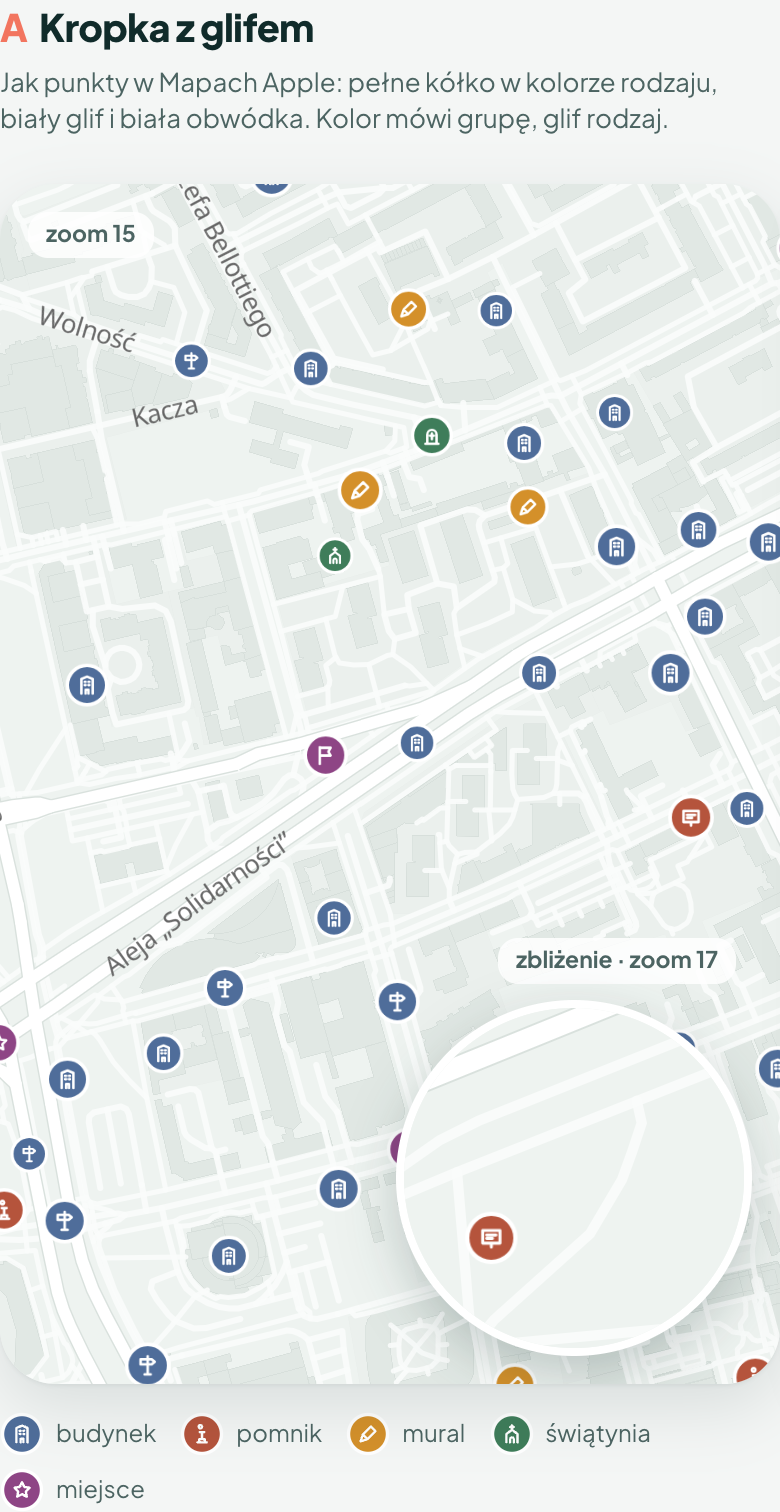
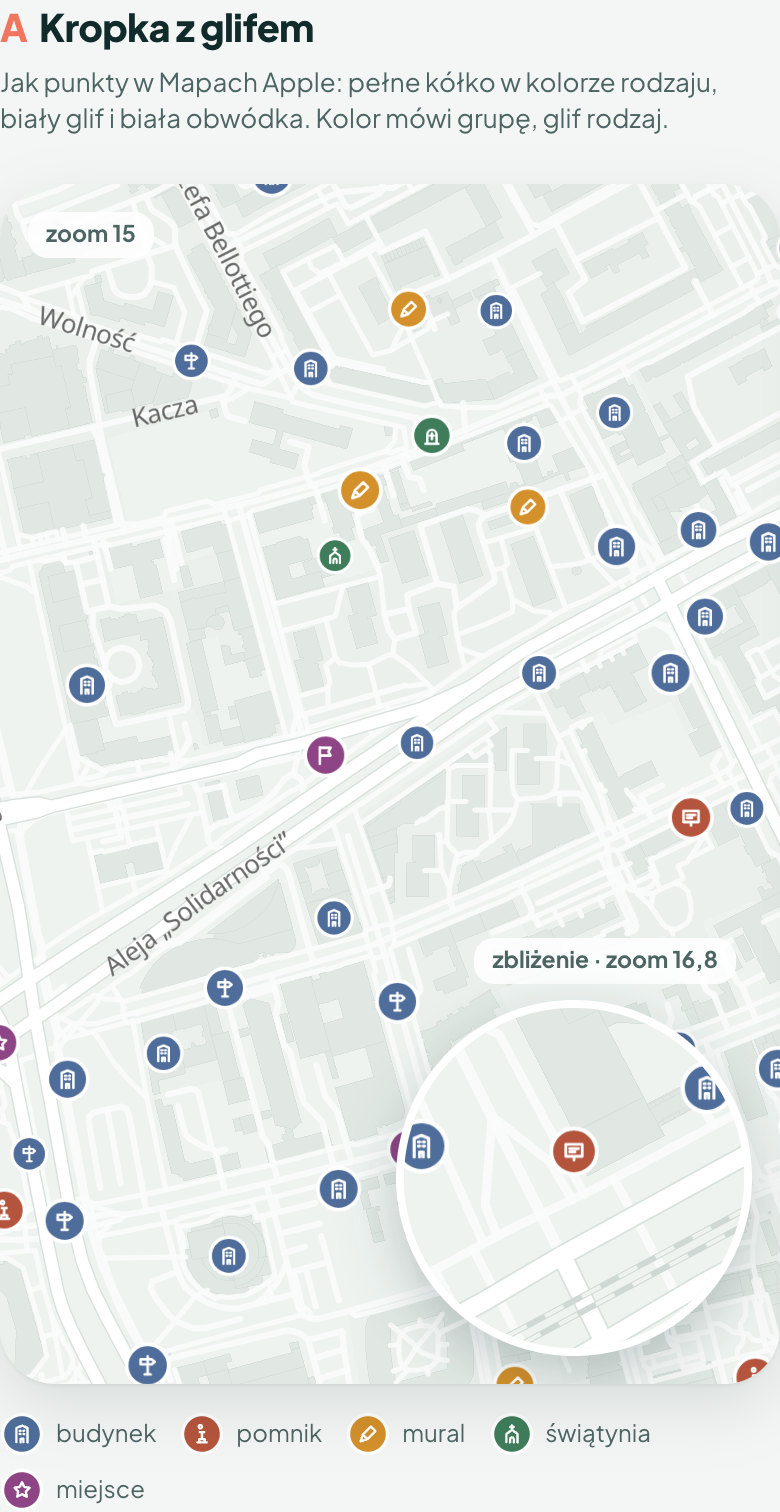
odswiezone propozycje znacznikow i zoom zblizenia 16,8

diff --git a/docs/ui/propozycje/html/ikony-znaczniki.html b/docs/ui/propozycje/html/ikony-znaczniki.html
@@ -163,7 +163,7 @@ for (const w of WARIANTY) {
     <div class="naglowek"><h2><span>${w.id.toUpperCase()}</span>${w.tytul}</h2><p>${w.opis}</p></div>
     <div class="ramka">
       <div class="mapa"></div><div class="zoom">zoom 15</div>
-      <div class="lupa-podpis">zbliżenie · zoom 17</div>
+      <div class="lupa-podpis">zbliżenie · zoom 16,8</div>
       <div class="lupa"><div class="mapa"></div></div>
     </div>
     <div class="legenda"></div>`;
@@ -178,7 +178,7 @@ for (const w of WARIANTY) {
 
   const [duza, mala] = kol.querySelectorAll('.mapa');
   const opcje = { style: 'https://tiles.openfreemap.org/styles/positron', attributionControl: false, interactive: false, preserveDrawingBuffer: true, fadeDuration: 0 };
-  for (const [el, center, zoom] of [[duza, SRODEK, 15], [mala, [20.9772, 52.2357], 17.3]]) {
+  for (const [el, center, zoom] of [[duza, SRODEK, 15], [mala, [20.9871, 52.2400], 16.8]]) {
     const m = new maplibregl.Map({ ...opcje, container: el, center, zoom });
     window.MAPY = (window.MAPY || 0) + 1;
     m.on('load', async () => {

diff --git a/docs/ui/README.md b/docs/ui/README.md
@@ -21,6 +21,7 @@ Każdy zrzut ma jedną linię poniżej: plik, co pokazuje, decyzja (jeśli jest)
 
 | Plik | Co pokazuje | Zadanie | Decyzja |
 |---|---|---|---|
+| [1800-znaczniki-00-zestawienie](propozycje/1800-znaczniki-00-zestawienie.png), [a](propozycje/1800-znaczniki-a.png), [b](propozycje/1800-znaczniki-b.png), [c](propozycje/1800-znaczniki-c.png), [d](propozycje/1800-znaczniki-d.png), [e](propozycje/1800-znaczniki-e.png) | Znaczniki miejsc zamiast ilustracji z `ikony-mapy/` (Paweł: brzydkie, kropki były lepsze). 326 prawdziwych miejsc, kolory rodzajów z `map-style.ts`, zoom 15 i zbliżenie. **A · Kropka z glifem**: kółko w kolorze rodzaju, biały glif. **B · Kropki, które rosną**: kropki do zoomu 16, potem kółko z glifem. **C · Pinezka**: kropla z glifem wbita w miejsce. **D · Plakietka**: biały kwadracik z kolorowym glifem. **E · Pierścień z podpisem**: bez glifu, pełny środek przy bogatych miejscach, nazwa z bliska. HTML: `propozycje/html/ikony-znaczniki.html` | mapa, ikony | do wyboru Pawła |
 | [1709-trasa-na-zywo-mobile](wyniki/1709-trasa-na-zywo-mobile.png), [pełny arkusz](wyniki/1709-trasa-na-zywo-pelny-mobile.png), [desktop](wyniki/1709-trasa-na-zywo-desktop.png) | Wdrożony ekran trasy „Na żywo” (wariant A), B, C i przełącznik usunięte. Kod: `features/demo/components/route-live.tsx`. Zapis dopasowuje wysokość do wysunięcia arkusza (zmienna CSS `--trasa-widoczne`), spacja wstrzymuje, strzałek nie ma | ekran trasy, T-106 | |
 | [1704-trasa-na-zywo-a](propozycje/1704-trasa-na-zywo-a-mobile.png), [b](propozycje/1704-trasa-na-zywo-b-mobile.png), [c](propozycje/1704-trasa-na-zywo-c-mobile.png) | Ekran trasy przerobiony pod T-106 (Antek): temat wybiera lokalizacja, a Sawa mówi jednym strumieniem z pomostami między tematami. Nie ma więc przycisków poprzednia/następna, zostaje pauza, a „Opowiedz teraz” przy przyszłym punkcie to wyjątek. Słowa już wypowiedziane są ciemne, reszta jasna (jak karaoke), a pod spodem „Dalej X · za ok. N min”. **A · Na żywo**: ciągły zapis jak napisy radia, poprzednie tematy wyszarzone nad bieżącym, chip „Teraz: miejsce” zmienia się sam, zapis jedzie za głosem, a po ręcznym przewinięciu pojawia się „Wróć do Sawy”. **B · Rozkład**: plan jazdy z odcinkami linii, znacznik „Ty” sam przeskakuje między punktami; przeszły punkt rozwija się z tym, co Sawa o nim powiedziała, przyszły z „Opowiedz teraz”. **C · Rozdziały**: karty jadą same za lokalizacją; przesunięcie w bok tylko podgląda przeszłe albo przyszłe rozdziały i nie zmienia narracji, a „Wróć do Sawy” wraca na bieżący. Do czasu T-106 temat zmienia się po końcu opowieści, a zapis składa się z kolejnych opowieści | ekran trasy, T-106 | Paweł wybrał A (17.10, 17:09) |
 | [1652-trasa-a](propozycje/1652-trasa-a-mobile.png), [b](propozycje/1652-trasa-b-mobile.png), [c](propozycje/1652-trasa-c-mobile.png) | Ekran gotowej trasy od nowa, 3 propozycje w kodzie (przełącznik u góry arkusza, `?trasa=a\|b\|c`, `route-variants.tsx`). **A · Odtwarzacz**: opowieść na pierwszym planie, duża nazwa miejsca i tekst Sawy, pasek postępu z odcinkiem na punkt (przy >12 punktach jeden ciągły), przyciski poprzednia/graj/następna, punkty jako kafelki przewijane w bok. **B · Rozkład**: jak trasa w Mapach Apple, duży czas jazdy i godzina startu, pionowa oś z odcinkami (linia, kierunek, godzina) przeplecionymi z punktami; aktywny punkt rozwija się z tekstem i odtwarzaniem. **C · Pocztówki**: każdy punkt to duża karta przewijana w bok i zatrzaskująca się na środku; przesunięcie zmienia opowieść, pod spodem kropki i „Dalej: …”. Wszystkie zachowują arkusz z 3 wysokościami, panel na desktopie i skróty klawiszowe | ekran trasy | zastąpione przez 1704 (narracja za lokalizacją) |
